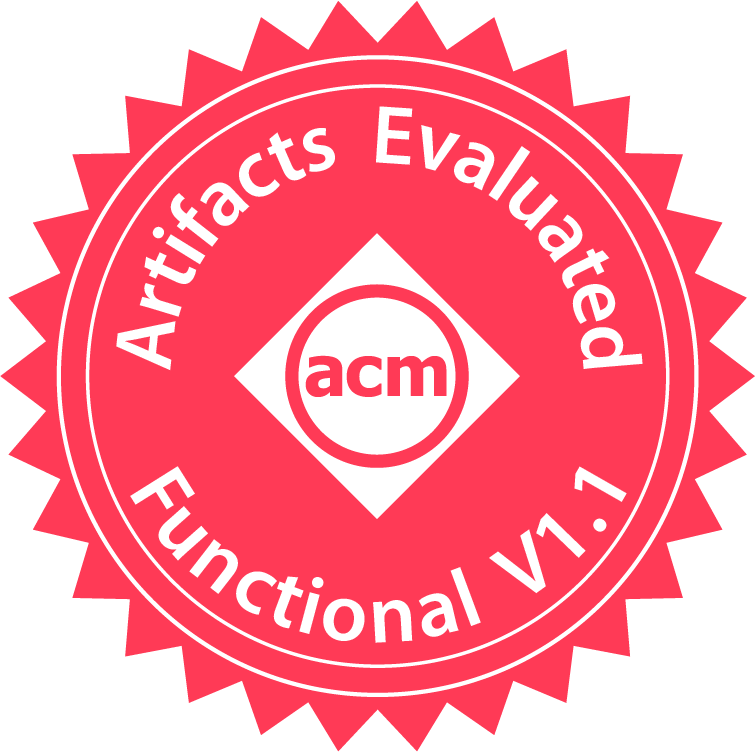
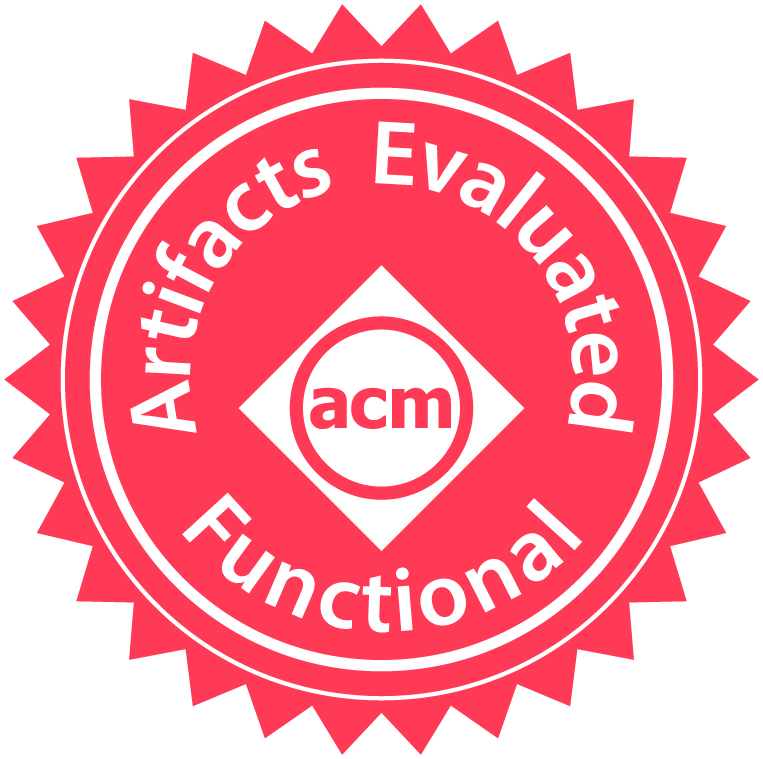
Add ACSAC 2024 (#124)
* Update ACM badges.

Updates the badges from https://www.acm.org/publications/policies/artifact-review-badging.
They have a slightly simpler look. Also included the replicated badge though it is unused.
Also included the available badge.

* Add IEEE Xplore badges.

Adds the badges from https://ieeexplore.ieee.org/Xplorehelp/overview-of-ieee-xplore/about-content#reproducibility-badges.
Well really these files are from: https://www.acsac.org/2024/program/artifacts/
as the IEEE site only has a single low-res image of all of the badges.

* Add ACSAC 2024.

Scrape badges from https://www.acsac.org/2024/program/artifacts/ using script @J08nY:
```
import yaml
from bs4 import BeautifulSoup
import requests
import sys

resp = requests.get("https://www.acsac.org/2024/program/artifacts/")
txt = resp.content

soup = BeautifulSoup(txt, "html5lib")

main_div = soup.find(class_="acsac-layout-docs__main")
available, reviewed, reproducible = main_div.find_all("ul")

artifacts = []
for ul, badge in zip((available, reviewed, reproducible), ("available", "reviewed", "reproducible")):
    for li in ul.find_all("li"):
        title = str(li.text).strip()
        url = li.find("a")["href"]
        artifact = {"title": title, "badge": badge, "artifact_url": url}
        artifacts.append(artifact)

yaml.dump(artifacts, sys.stdout, default_flow_style=False, sort_keys=False)
```

diff --git a/_conferences/acsac2024/results.md b/_conferences/acsac2024/results.md
@@ -1,0 +1,276 @@
+---
+title: Results
+order: 20
+available_img: ieeexplore_code_available.png
+available_name: Code Available
+reviewed_img: ieeexplore_code_reviewed.png
+reviewed_name: Code Reviewed
+reproducible_img: ieeexplore_code_reproducible.png
+reproducible_name: Code Reproducible
+artifacts:
+ - title: 'TRACES: TEE-based Runtime Auditing for Commodity Embedded Systems'
+   badges: available
+   artifact_url: https://github.com/RIT-CHAOS-SEC/TRACES
+ - title: Leveraging Intensity as a New Feature to Detect Physical Adversarial Attacks
+     Against LiDARs
+   badges: available
+   artifact_url: https://anonymous.4open.science/r/intensity_detection-B461
+ - title: Physical ID-Transfer Attacks against Multi-Object Tracking via Adversarial
+     Trajectory
+   badges: available
+   artifact_url: https://github.com/ch3ny1/AdvTraj_ID_Transfer/tree/main
+ - title: 'R+R: Understanding Hyperparameter Effects in DP-SGD'
+   badges: available
+   artifact_url: https://github.com/kit-ps/R-R-Understanding-Hyperparameter-Effects-in-DP-SGD
+ - title: 'ConProv: A Container-Aware Provenance System for Attack Investigation'
+   badges: available
+   artifact_url: https://github.com/XiaoXiaoGuaiXiaShi/conprov
+ - title: 'T-Edge: Trusted Heterogeneous Edge Computing'
+   badges: available
+   artifact_url: https://github.com/T-Edge/t-edge
+ - title: 'FLUENT: A Tool for Efficient Mixed-Protocol Semi-Private Function Evaluation'
+   badges: available
+   artifact_url: https://anonymous.4open.science/r/paper-review-5C71
+ - title: Faking deduplication to prevent timing side-channel attacks on memory deduplication
+   badges: reviewed
+   artifact_url: https://www.dropbox.com/scl/fi/ldgwvte9ud2egj8xl25y3/ACSAC2024-Artifact-1.zip?rlkey=axfmzm5gqpxcsk4ngyjnrkx58&st=cwip9nw4&dl=0
+ - title: 'SecurityHub: Electromagnetic Fingerprinting USB Peripherals using Backscatter-assisted
+     Commodity Hardware'
+   badges: reviewed
+   artifact_url: https://github.com/zlab-pub/SecurityHub
+ - title: 'R+R: Demystifying ML-Assisted Side-Channel Analysis Framework: A Case of
+     Image Reconstruction'
+   badges: reviewed
+   artifact_url: https://github.com/zhenzhilai/ACSAC_ML_SCA_EVA/
+ - title: 'You Only Perturb Once: Bypassing (Robust) Ad-Blockers Using Universal Adversarial
+     Perturbations'
+   badges: reviewed
+   artifact_url: https://drive.google.com/drive/folders/1GP56aoQds2gvlAliroSFGDturLefFSgv
+ - title: 'Assault and Battery: Evaluating the Security of Power Conversion Systems
+     Against Electromagnetic Injection Attacks'
+   badges: reviewed
+   artifact_url: https://github.com/ssloxford/assault_and_battery
+ - title: 'R+R: Towards Reliable and Generalizable Differentially Private Machine Learning'
+   badges: reviewed
+   artifact_url: https://github.com/wenxuan-Bao/Reliable-and-Generalizable-DPML
+ - title: 'RouTEE: Secure, Scalable, and Efficient Off-Chain Payments using Trusted
+     Execution Environments'
+   badges: reviewed
+   artifact_url: https://github.com/RouTEE-SGX/rouTEE/tree/artifact
+ - title: 'R+R: Matrioska: A User-Centric Defense Against Virtualization-Based Repackaging
+     Malware on Android'
+   badges: reviewed
+   artifact_url: https://anonymous.4open.science/r/matrioska/README.md
+ - title: Stealing Watermarks of Large Language Models via Mixed Integer Programming
+   badges: reviewed
+   artifact_url: https://github.com/plll4zzx/mip_watermark_stealing
+ - title: 'WiShield: Fine-grained Countermeasure Against Malicious Wi-Fi Sensing in
+     Smart Home'
+   badges: reviewed
+   artifact_url: https://github.com/zlab-pub/WiShield
+ - title: 'AirBugCatcher: Automated Wireless Reproduction of IoT Bugs'
+   badges: reviewed
+   artifact_url: https://anonymous.4open.science/r/air-bug-catcher-E5C2
+ - title: 'Harnessing Multiplicity: Granular Browser Extension Fingerprinting through
+     User Configurations'
+   badges: reviewed
+   artifact_url: https://anonymous.4open.science/r/acsac_artifacts-F0D2/README.md
+ - title: 'Not All Tokens Are Equal: Membership Inference Attacks Against Fine-tuned
+     Language Models'
+   badges: reviewed
+   artifact_url: https://anonymous.4open.science/r/WEL-MIA-F46A/
+ - title: 'Reading It like an Open Book: Single-trace Blind Side-channel Attacks on
+     Garbled Circuit Frameworks'
+   badges: reviewed
+   artifact_url: https://github.com/NomadShen/chipwhisperer https://github.com/NomadShen/fpga_based_attack
+ - title: Towards a Taxonomy of Challenges in Security Control Implementation
+   badges: reviewed
+   artifact_url: https://figshare.com/s/afd0ca190edd1e7f2193
+ - title: Link Inference Attacks in Vertical Federated Graph Learning
+   badges: reviewed
+   artifact_url: https://github.com/LIA-VFGL/LIA-VFGL-ACSAC
+ - title: On the Credibility of Backdoor Attacks Against Object Detectors in the Physical
+     World
+   badges: reviewed
+   artifact_url: https://github.com/AdelaideAuto-IDLab/PhysicalBackdoorDetectors
+ - title: 'SpecCFA: Enhancing Control Flow Attestation/Auditing via Application-Aware
+     Sub-Path Speculation'
+   badges: reproducible
+   artifact_url: https://github.com/RIT-CHAOS-SEC/SpecCFA
+ - title: 'VIMU: Effective Physics-based Realtime Detection and Recovery against Stealthy
+     Attacks on UAVs'
+   badges: reproducible
+   artifact_url: https://github.com/wangwwno1/Project-VIMU
+ - title: 'R+R: Revisiting Graph Matching Attacks on Privacy-Preserving Record Linkage'
+   badges: reproducible
+   artifact_url: https://anonymous.4open.science/r/graphMatching-EBE5/
+ - title: 'FreeAuth: Privacy-Preserving Email Ownership Authentication with Verification-Email-Free'
+   badges: reproducible
+   artifact_url: https://anonymous.4open.science/r/freeauth-543F/
+ - title: 'No Leakage Without State Change: Repurposing Configurable CPU Exceptions
+     to Prevent Microarchitectural Attacks'
+   badges: reproducible
+   artifact_url: https://github.com/cispa/irqguard
+ - title: 'Robust Device Authentication in Multi-Node Networks: ML-Assisted Hybrid
+     PLA Exploiting Hardware Impairments'
+   badges: reproducible
+   artifact_url: https://github.com/PLA-AP/PLA/tree/main
+ - title: 'Single Sign-On Privacy: We Still Know What You Did Last Summer'
+   badges: reproducible
+   artifact_url: https://sso-privacy-leak.info
+ - title: 'Sidecar: Leveraging Debugging Extensions in Commodity Processors to Secure
+     Software'
+   badges: reproducible
+   artifact_url: https://github.com/kleftog/sidecar-ae
+ - title: 'VaktBLE: A Benevolent Man-in-the-Middle Bridge to Guard against Malevolent
+     BLE Connections'
+   badges: reproducible
+   artifact_url: https://anonymous.4open.science/r/vaktble-ble-defender/
+ - title: 'R+R: Security Vulnerability Dataset Quality Is Critical'
+   badges: reproducible
+   artifact_url: https://github.com/Anurag-Swarnim-Yadav/Security-Vulnerability-Repair
+ - title: 'FA-SEAL: Forensically Analyzable Symmetric Encryption for Audit Logs'
+   badges: reproducible
+   artifact_url: https://github.com/BasantaChaulagain/faseal
+ - title: Efficient Secure Aggregation for Privacy-Preserving Federated Machine Learning
+   badges: reproducible
+   artifact_url: https://github.com/vt-asaplab/e-SeaFL/tree/ACSAC_2024
+ - title: Privacy-Preserving Verifiable Neural Network Inference Service
+   badges: reproducible
+   artifact_url: https://github.com/vt-asaplab/vPIN/tree/ACSAC_2024
+ - title: 'BinHunter: A Fine-Grained Graph Representation for Localizing Vulnerabilities
+     in Binary Executables'
+   badges: reproducible
+   artifact_url: https://github.com/SimaArasteh/binhuntertool
+ - title: 'FedCAP: Robust Federated Learning via Customized Aggregation and Personalization'
+   badges: reproducible
+   artifact_url: https://github.com/Anonymouous0/FedCAP
+ - title: 'Manifest Problems: Analyzing Code Transparency for Android Application Bundles'
+   badges: reproducible
+   artifact_url: https://github.com/asit-fdraschbacher/artifacts_manifest_problems
+ - title: Model-Manipulation Attacks Against Black-Box Explanations
+   badges: reproducible
+   artifact_url: https://github.com/achyuthegde/xai-backdoors-makrut
+ - title: 'R+R: A Systematic Study of Cryptographic Function Identification Approaches
+     in Binaries'
+   badges: reproducible
+   artifact_url: https://github.com/cryptobinarybenchmark/CryptoBinary-Benchmarks
+ - title: 'ViTGuard: Attention-aware Detection against Adversarial Examples for Vision
+     Transformer'
+   badges: reproducible
+   artifact_url: https://gitfront.io/r/user-5409342/8LbaoHMLR6nL/ViTGuard/
+ - title: 'Leaky Autofill: An Empirical Study on the Privacy Threat of Password Managers''
+     Autofill Functionality'
+   badges: reproducible
+   artifact_url: https://github.com/Leaky-Autofill/LeakyAutofill-Artifact
+ - title: 'TATTOOED: A Robust Deep Neural Network Watermarking Scheme based on Spread-Spectrum
+     Channel Coding'
+   badges: reproducible
+   artifact_url: https://anonymous.4open.science/r/tattooed_artifact_evaluation-7870/README.md
+ - title: 'SECvma: Virtualization-based Linux Kernel Protection for Arm'
+   badges: reproducible
+   artifact_url: https://github.com/ae-acsac24-44/acsac24-paper240-ae.git
+ - title: A Security Alert Investigation Tool Supporting Tier 1 Analysts in Contextualizing
+     and Understanding Network Security Events
+   badges: reproducible
+   artifact_url: https://gitlab.tue.nl/aiss
+ - title: 'CryptoPyt: Unraveling Python Cryptographic APIs Misuse With Precise Static
+     Taint Analysis'
+   badges: reproducible
+   artifact_url: https://anonymous.4open.science/r/cryptopyt-1CC6/README.md
+ - title: I'll Be There for You! Perpetual Availability in the A^8 MVX System
+   badges: reproducible
+   artifact_url: https://1drv.ms/u/s!AhnNtaOjydZKb1_xHC_42hvxojw?e=csCS2o
+ - title: 'I Can Show You the World (of Censorship): Extracting Insights from Censorship
+     Measurement Data Using Statistical Techniques'
+   badges: reproducible
+   artifact_url: https://github.com/censorship-event-detection/acsac-censorship-event-detection
+ - title: Adversarially Guided Stateful Defense Against Backdoor Attacks in Federated
+     Deep Learning
+   badges: reproducible
+   artifact_url: https://github.com/anonymous-anonymous-dev/AGSD.git
+ - title: Practical Light Clients for Committee-Based Blockchains
+   badges: reproducible
+   artifact_url: https://anonymous.4open.science/r/research-project-G8KJ41/
+ - title: 'BlueScream: Screaming Channels on Bluetooth Low Energy'
+   badges: reproducible
+   artifact_url: https://github.com/pierreay/screaming_channels_ble/blob/main/docs/demo_20240828_acsac/README.md
+
+---
+
+Results automatically obtained from <a href="https://www.acsac.org/2024/program/artifacts/">ACSAC website</a>.
+
+**Evaluation Results**:
+
+* 7 Code Available
+* 17 Code Reviewed
+* 29 Code Reproducible
+
+<table>
+  <thead>
+    <tr>
+      <th>
+        Title
+      </th>
+      <th>
+        Avail.
+      </th>
+      <th>
+        Review.
+      </th>
+      <th>
+        Repro.
+      </th>
+      <th>
+        Available At
+      </th>
+    </tr>
+  </thead>
+  <tbody>
+    {% for artifact in page.artifacts %}
+    <tr>
+      <td>
+        {% if artifact.paper_url %}
+        <a href="{{artifact.paper_url}}" target="_blank">
+          {{artifact.title}}
+        </a>
+        {% else %}
+            {{ artifact.title }}
+        {% endif %}
+      </td>
+      <td width="62px">
+        {% if artifact.badges contains "available" %}
+        <img alt="{{ page.available_name }}" src="{{ site.baseurl }}/images/{{ page.available_img }}">
+        {% endif %}
+      </td>
+      <td width="62px">
+        {% if artifact.badges contains "reviewed" %}
+        <img alt="{{ page.reviewed_name }}" src="{{ site.baseurl }}/images/{{ page.reviewed_img }}">
+        {% endif %}
+      </td>
+      <td width="62px">
+        {% if artifact.badges contains "reproducible" %}
+        <img alt="{{ page.reproducible_name }}" src="{{ site.baseurl }}/images/{{ page.reproducible_img }}">
+        {% endif %}
+      </td>
+      <td>
+        {% if artifact.artifact_url %}
+            {% assign artifacts = artifact.artifact_url | split: " " %}
+            {% for url in artifacts %}
+        <a href="{{url}}" target="_blank">
+          Artifact
+        </a>
+        <br>
+        {% endfor %}
+        {% endif %}
+        {% if artifact.appendix_url %}
+        <a href="{{artifact.appendix_url}}" target="_blank">
+          Appendix
+        </a>
+        <br>
+        {% endif %}
+      </td>
+    </tr>
+    {% endfor %}
+  </tbody>
+</table>

diff --git a/_conferences/acsac2024/index.md b/_conferences/acsac2024/index.md
@@ -1,0 +1,6 @@
+---
+title: Evaluation
+order: 0
+---
+
+To help support the reproducibility for research results, ACSAC encourages authors of accepted papers to submit software they develop and datasets they use to perform their research and make them publicly available to the entire community. We believe that this is an important initiative that can help the entire community increase its reputation, and make research in the security field proceeds faster by taking advantage of systems previously built by other researchers. We thank all the authors who participated in this initiative!

diff --git a/_conferences/acsac2024/call.md b/_conferences/acsac2024/call.md
@@ -1,0 +1,5 @@
+---
+title: Call for Artifacts
+order: 10
+redirect_to: https://www.acsac.org/2024/submissions/papers/artifacts/
+---
